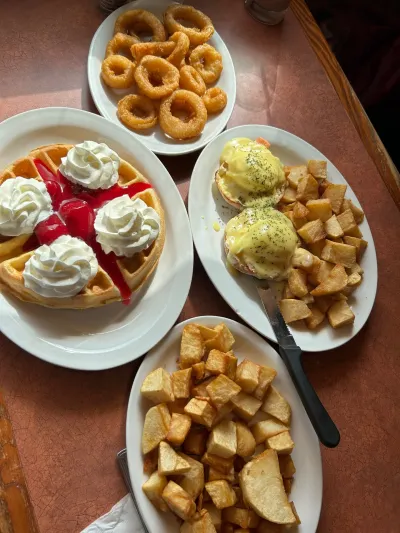
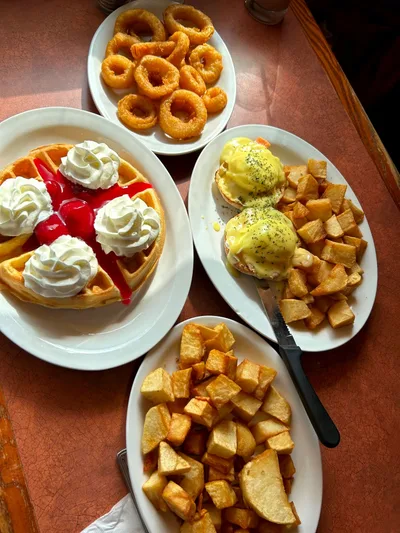
Enhance hero image colors and optimize file sizes for better display
Add a new script that enhances hero image colors and optimizes image sizes to match display dimensions, improving visual quality and performance.

Replit-Commit-Author: Agent
Replit-Commit-Session-Id: 1a6dfc4d-2bd5-4daf-9ad2-7af21fdd8aec
Replit-Commit-Checkpoint-Type: intermediate_checkpoint
Replit-Commit-Event-Id: 66f8cc5e-2a24-4de7-8578-b517d17a1b43
Replit-Commit-Screenshot-Url: https://storage.googleapis.com/screenshot-production-us-central1/b384bb20-d210-4278-ab1c-30e5a205fcd0/1a6dfc4d-2bd5-4daf-9ad2-7af21fdd8aec/iTPVsbP
Replit-Helium-Checkpoint-Created: true

diff --git a/replit.md b/replit.md
@@ -84,6 +84,8 @@ The project is configured for Vercel deployment with:
   - Added fetchpriority="high" directly on hero img
   - Code splitting with vendor chunk for React
   - Terser minification with console/debugger removal
+  - Enhanced hero image colors in source file (saturation +25%, contrast boost) instead of CSS filters
+  - Optimized hero images to exact display dimensions (400w mobile, 600w desktop)
 
 ## Performance Features
 
